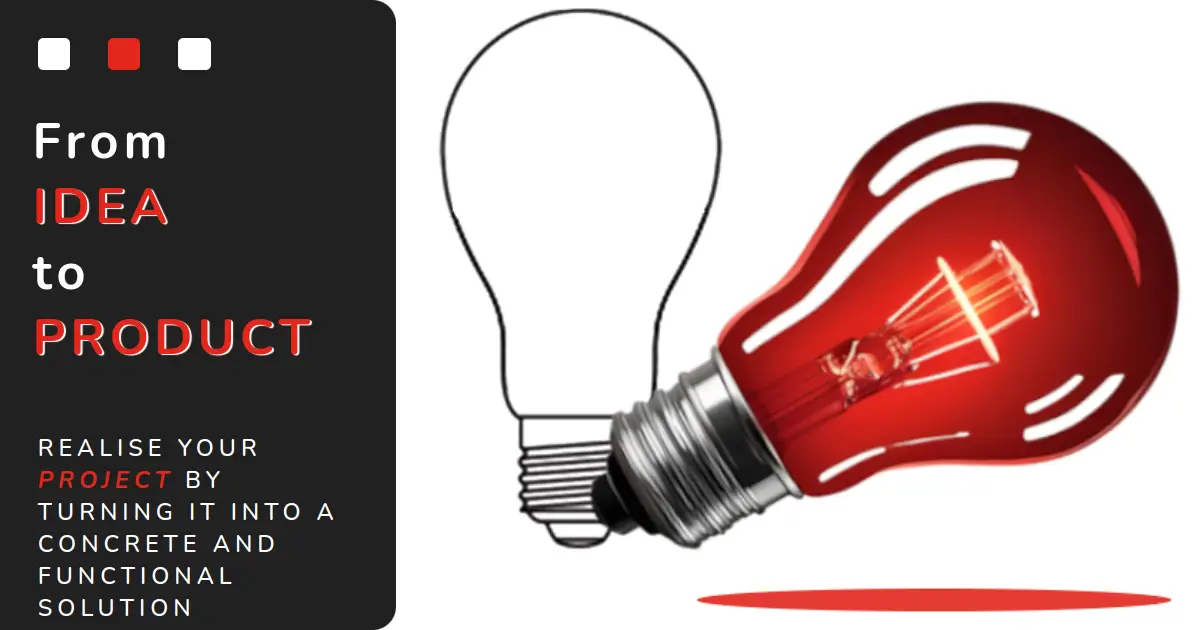
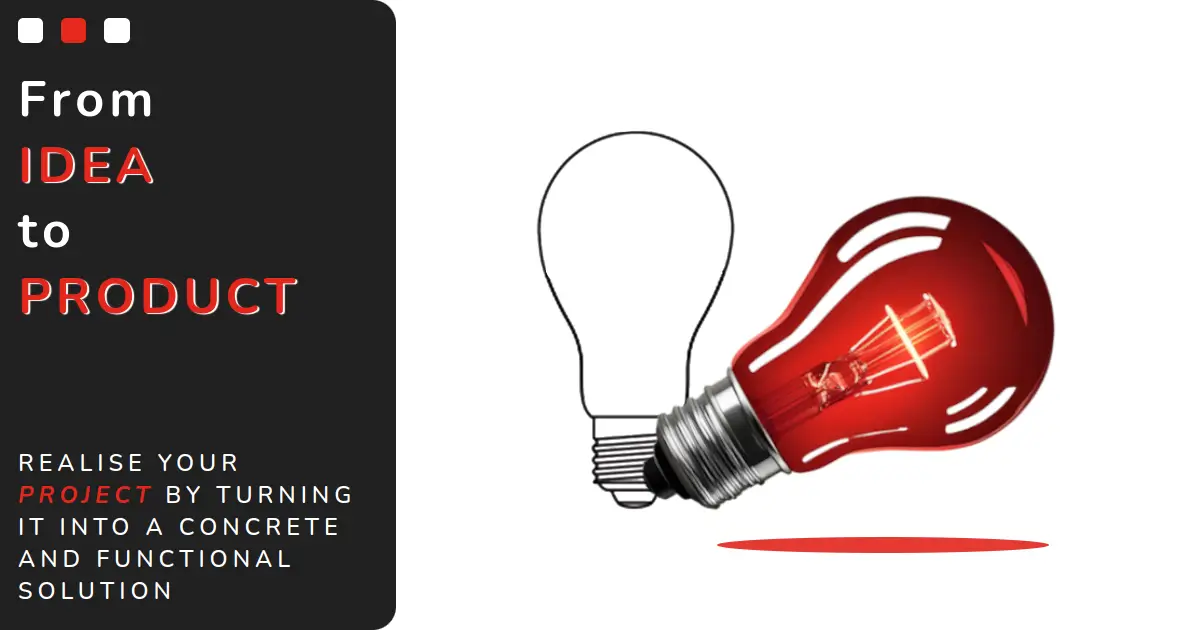
Again on UI

diff --git a/views/landing/from-idea-to-prototype/style.css b/views/landing/from-idea-to-prototype/style.css
@@ -10,7 +10,7 @@
   --l-h1-font-size: 4rem;
   --l-picture-h-big: 50vh;
   --l-picture-h: 50vh;
-  --content-p-h: 28vh;
+  --l-content-text-h: 31vh;
 }
 
 main {
@@ -110,12 +110,12 @@ nav li:nth-child(9) a::before {
   width: var(--l-content-inner-w);
   margin: var(--x-small-space) 0;
 }
-.content p {
+.content div.text {
   overflow: auto;
-  height: var(--content-p-h);
+  height: var(--l-content-text-h);
 }
-.content #one p {
-  height: 24vh;
+.content #one div.text {
+  height: 31vh;
 }
 .content li {
   list-style: none;
@@ -126,7 +126,7 @@ nav li:nth-child(9) a::before {
   flex-direction: column;
   align-items: center;
   height: 100vh;
-  justify-content: space-evenly;
+  justify-content: space-around;
 }
 .content ul, .content h2 {
   margin: 0;
@@ -255,25 +255,30 @@ nav li:nth-child(9) a::before {
 
 
 /* RESPONSIVE */
-@media screen and (max-width: 1366px) {
+@media screen and (max-width: 1440px) {
   :root {
     --l-font-size: 15px!important;
+    --l-content-text-h: 35vh;
+  }
+}
+
+@media screen and (max-width: 1366px) {
+  :root {
+    --l-font-size: 13px!important;
   }
 }
 
 @media screen and (max-width: 1280px) {
   :root {
-    --l-font-size: 14px!important;
     --l-content-inner-w: 60%;
   }
 }
 
 @media screen and (max-width: 1024px) {
   :root {
-    --l-font-size: 13px!important;
     --l-h1-font-size: 3rem;
     --l-content-inner-w: 80%;
-    --content-p-h: 24vh;
+    --l-content-text-h: 24vh;
   }
 }
 
@@ -285,7 +290,7 @@ nav li:nth-child(9) a::before {
     --l-h1-font-size: 2.4rem;
     --l-picture-h-big: 50vh;
     --l-picture-h: 33vh;
-    --content-p-h: 36vh;
+    --l-content-text-h: 36vh;
   }
   .wrap {
     flex-direction: column-reverse;
@@ -322,6 +327,12 @@ nav li:nth-child(9) a::before {
   .services li {
     width: var(--l-content-width);
     margin-bottom: calc(var(--xx-large-space) * 2)
+  }
+}
+
+@media screen and (max-width: 414px) {
+  :root {
+    --l-content-text-h: 48vh;
   }
 }
 
